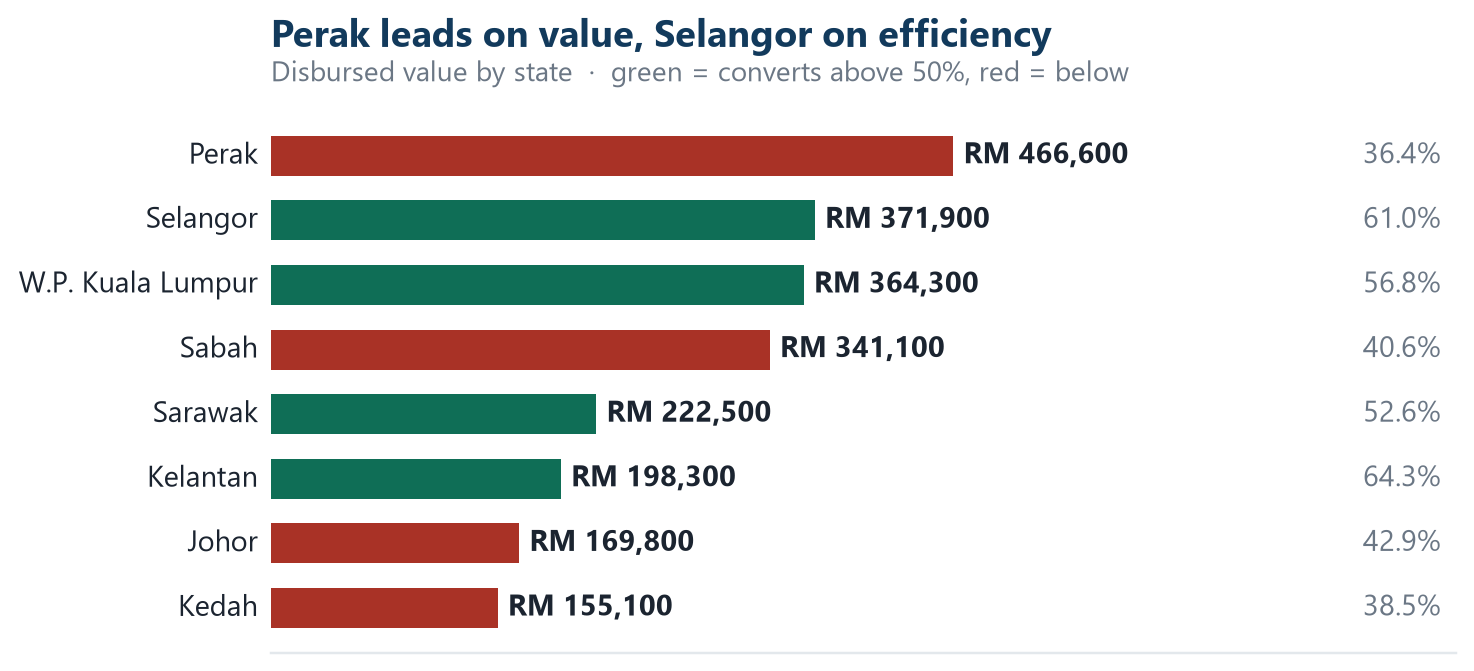
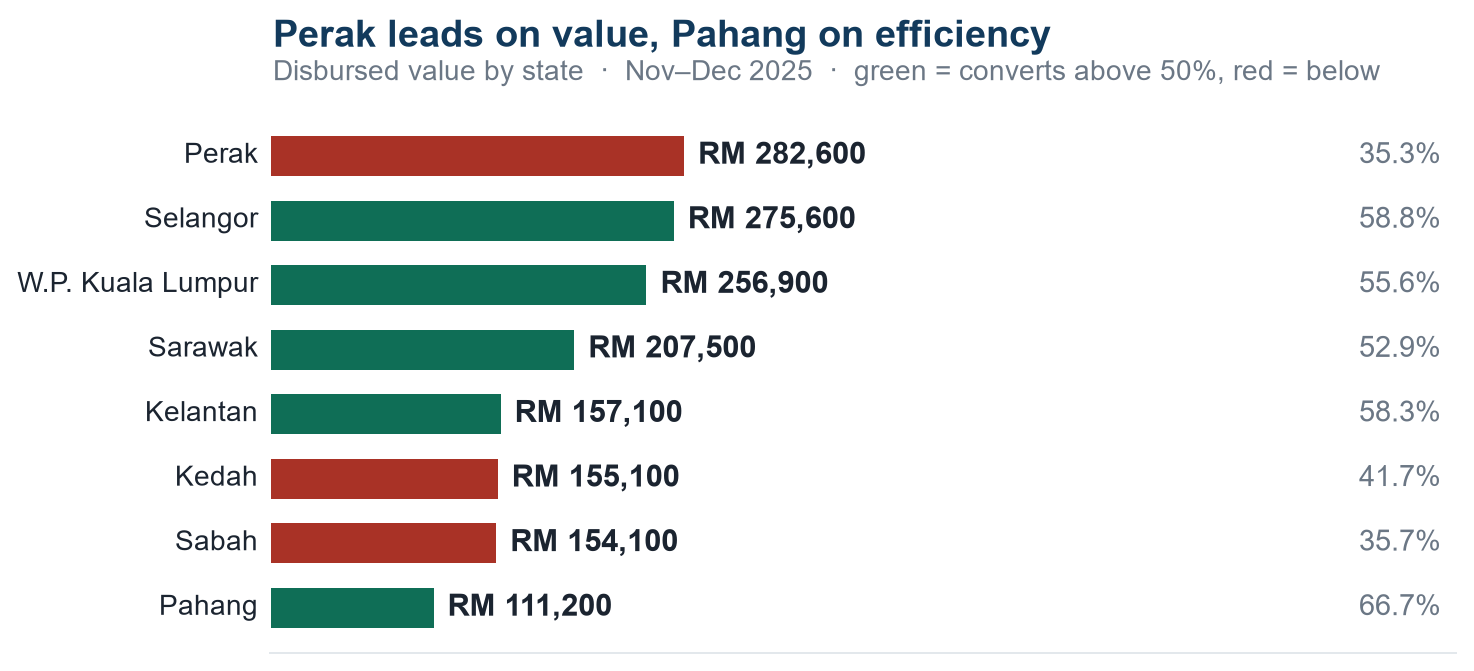
Reconcile the Xanderia figures to the revised ad spend, serve the new resume
Ad spend is RM 38,137.15, revised down from RM 44,087.15 in the workbook, so
every derived figure moves with it: RM 74.39 returned per RM 1, media 1.34
percent of disbursed value and RM 268.57 per loan paid out.

Chart 03 is rebuilt on the real state data. The old chart drew Perak at
RM 466,600 and named W.P. Putrajaya, neither of which the workbook can
reproduce. It now shows Perak leading on value at RM 282,600 and Pahang
leading on efficiency at 66.7 percent. Chart 05 is rebuilt on the new spend.

Both charts are versioned with ?v=20260926a. The assets folder is cached
immutable for a year and the chart URLs carried no version string, so a
returning visitor would otherwise have kept the old charts indefinitely.

The resume download is replaced with the owner's new PDF, which states
RM 38,137 and so now agrees with the site. Its cache buster moves to
?v=20260926b.

diff --git a/index.html b/index.html
@@ -1442,7 +1442,7 @@
     </p>
 
     <div class="hero-stats rv">
-      <div><span class="hs-n">RM51.6K</span><span class="hs-l">Ad spend managed</span></div>
+      <div><span class="hs-n">RM38.1K</span><span class="hs-l">Ad spend managed</span></div>
       <div><span class="hs-n">RM5.5M</span><span class="hs-l">Applications submitted</span></div>
       <div><span class="hs-n">80K+</span><span class="hs-l">Social likes in 4 months</span></div>
     </div>
@@ -1452,7 +1452,7 @@
         View Case Studies
         <svg viewBox="0 0 24 24" fill="none" stroke="currentColor" stroke-width="2" stroke-linecap="round" stroke-linejoin="round" aria-hidden="true"><path d="M5 12h14M13 6l6 6-6 6"/></svg>
       </a>
-      <a class="hero-btn ghost" href="assets/Muhd-Hassan-Resume.pdf?v=20260925a" download="Muhd-Hassan-Resume.pdf">
+      <a class="hero-btn ghost" href="assets/Muhd-Hassan-Resume.pdf?v=20260926b" download="Muhd-Hassan-Resume.pdf">
         Download Resume
         <svg viewBox="0 0 24 24" fill="none" stroke="currentColor" stroke-width="2" stroke-linecap="round" stroke-linejoin="round" aria-hidden="true"><path d="M12 3v12M7 11l5 5 5-5M5 21h14"/></svg>
       </a>
@@ -1845,7 +1845,7 @@
         </div>
         <div>
           <span class="f-k">Ad Spend</span>
-          <p class="f-v"><strong>RM51,627</strong> across Meta and TikTok</p>
+          <p class="f-v"><strong>RM38,137</strong> across Meta and TikTok</p>
         </div>
       </div>
 
@@ -1903,9 +1903,9 @@
                 <span class="cap">Half of what was applied for never converts</span>
               </button>
               <button type="button" class="shot wide" data-shot="shotX3" aria-label="Enlarge: disbursed value and conversion rate by state">
-                <img src="assets/xanderia/03-conversion-by-state.png" alt="State bar chart ranking Perak highest by disbursed value at RM466,600 while converting at 36.4 percent, against W.P. Putrajaya at 77.8 percent" loading="lazy" decoding="async">
+                <img src="assets/xanderia/03-conversion-by-state.png?v=20260926a" alt="State bar chart of disbursed value, November to December 2025: Perak RM282,600, Selangor RM275,600, W.P. Kuala Lumpur RM256,900, Sarawak RM207,500, Kelantan RM157,100, Kedah RM155,100, Sabah RM154,100 and Pahang RM111,200, with Pahang converting highest at 66.7 percent and Perak lowest at 35.3 percent" loading="lazy" decoding="async">
                 <span class="zoom"><svg viewBox="0 0 24 24" fill="none" stroke="currentColor" stroke-width="2" stroke-linecap="round"><circle cx="11" cy="11" r="7"/><path d="M20 20l-3.5-3.5M11 8v6M8 11h6"/></svg></span>
-                <span class="cap">Perak leads on value, Selangor on efficiency</span>
+                <span class="cap">Perak leads on value, Pahang on efficiency</span>
               </button>
               <button type="button" class="shot wide" data-shot="shotX4" aria-label="Enlarge: largest rejection and cancellation reasons by value">
                 <img src="assets/xanderia/04-loss-reasons.png" alt="Bar chart of the five largest reasons by value: customers going to a competing agency at RM594,900 across 4 cases, then DSR burst, other reasons, resubmission with another agency and no response" loading="lazy" decoding="async">
@@ -1913,9 +1913,9 @@
                 <span class="cap">The biggest losses go to competitors, not credit</span>
               </button>
               <button type="button" class="shot wide" data-shot="shotX5" aria-label="Enlarge: media efficiency against disbursed value">
-                <img src="assets/xanderia/05-media-efficiency.png" alt="Comparison bar of RM2,836,900 disbursed against RM51,627.15 of paid media spend, returning RM54.95 for every ringgit spent" loading="lazy" decoding="async">
+                <img src="assets/xanderia/05-media-efficiency.png?v=20260926a" alt="Comparison bar of RM2,836,900 of loans disbursed against RM38,137.15 of paid media spend, returning RM74.39 for every ringgit spent" loading="lazy" decoding="async">
                 <span class="zoom"><svg viewBox="0 0 24 24" fill="none" stroke="currentColor" stroke-width="2" stroke-linecap="round"><circle cx="11" cy="11" r="7"/><path d="M20 20l-3.5-3.5M11 8v6M8 11h6"/></svg></span>
-                <span class="cap">RM1 of advertising returned RM54.95</span>
+                <span class="cap">RM1 of advertising returned RM74.39</span>
               </button>
             </div>
             <a class="ev-dl" href="assets/xanderia/Xanderia-Q4-2025-Case-Study.pdf" target="_blank" rel="noopener">
@@ -2308,7 +2308,7 @@
     </button>
     <p class="certbox-t">Geography Decides Conversion</p>
     <p class="certbox-s">Xanderia Q4 2025 &middot; From the campaign data</p>
-    <img src="assets/xanderia/03-conversion-by-state.png" alt="Top eight states by disbursed value with conversion rates: Perak RM466,600 at 36.4 percent down to Kedah RM155,100 at 38.5 percent, with W.P. Putrajaya highest at 77.8 percent" loading="lazy" />
+    <img src="assets/xanderia/03-conversion-by-state.png?v=20260926a" alt="Top eight states by disbursed value with conversion rates: Perak RM282,600 at 35.3 percent, Selangor RM275,600 at 58.8 percent, W.P. Kuala Lumpur RM256,900 at 55.6 percent, Sarawak RM207,500 at 52.9 percent, Kelantan RM157,100 at 58.3 percent, Kedah RM155,100 at 41.7 percent, Sabah RM154,100 at 35.7 percent and Pahang RM111,200 at 66.7 percent" loading="lazy" />
   </div>
 </div>
 
@@ -2328,9 +2328,9 @@
     <button type="button" class="certbox-x" onclick="closeCert('shotX5')" aria-label="Close">
       <svg viewBox="0 0 24 24" fill="none" stroke="currentColor" stroke-width="2.2" stroke-linecap="round"><path d="M6 6l12 12M18 6L6 18"/></svg>
     </button>
-    <p class="certbox-t">RM1 Returned RM54.95</p>
+    <p class="certbox-t">RM1 Returned RM74.39</p>
     <p class="certbox-s">Xanderia Q4 2025 &middot; From the campaign data</p>
-    <img src="assets/xanderia/05-media-efficiency.png" alt="Bar comparing RM2,836,900 of disbursed loans against RM51,627.15 of paid media spend, described as RM363.57 per loan paid out and 1.8 percent of disbursed value" loading="lazy" />
+    <img src="assets/xanderia/05-media-efficiency.png?v=20260926a" alt="Bar comparing RM2,836,900 of disbursed loans against RM38,137.15 of paid media spend, described as RM268.57 per loan paid out and 1.34 percent of disbursed value" loading="lazy" />
   </div>
 </div>
 
@@ -2354,7 +2354,7 @@
       <a class="clink" href="https://www.linkedin.com/in/hassan-ghazali-336197353/" target="_blank" rel="noopener">
         <span class="lab">LinkedIn</span><span class="val">View my profile &rarr;</span>
       </a>
-      <a class="clink" href="assets/Muhd-Hassan-Resume.pdf?v=20260925a" download="Muhd-Hassan-Resume.pdf">
+      <a class="clink" href="assets/Muhd-Hassan-Resume.pdf?v=20260926b" download="Muhd-Hassan-Resume.pdf">
         <span class="lab">Resume</span><span class="val">Download PDF &darr;</span>
       </a>
     </div>
